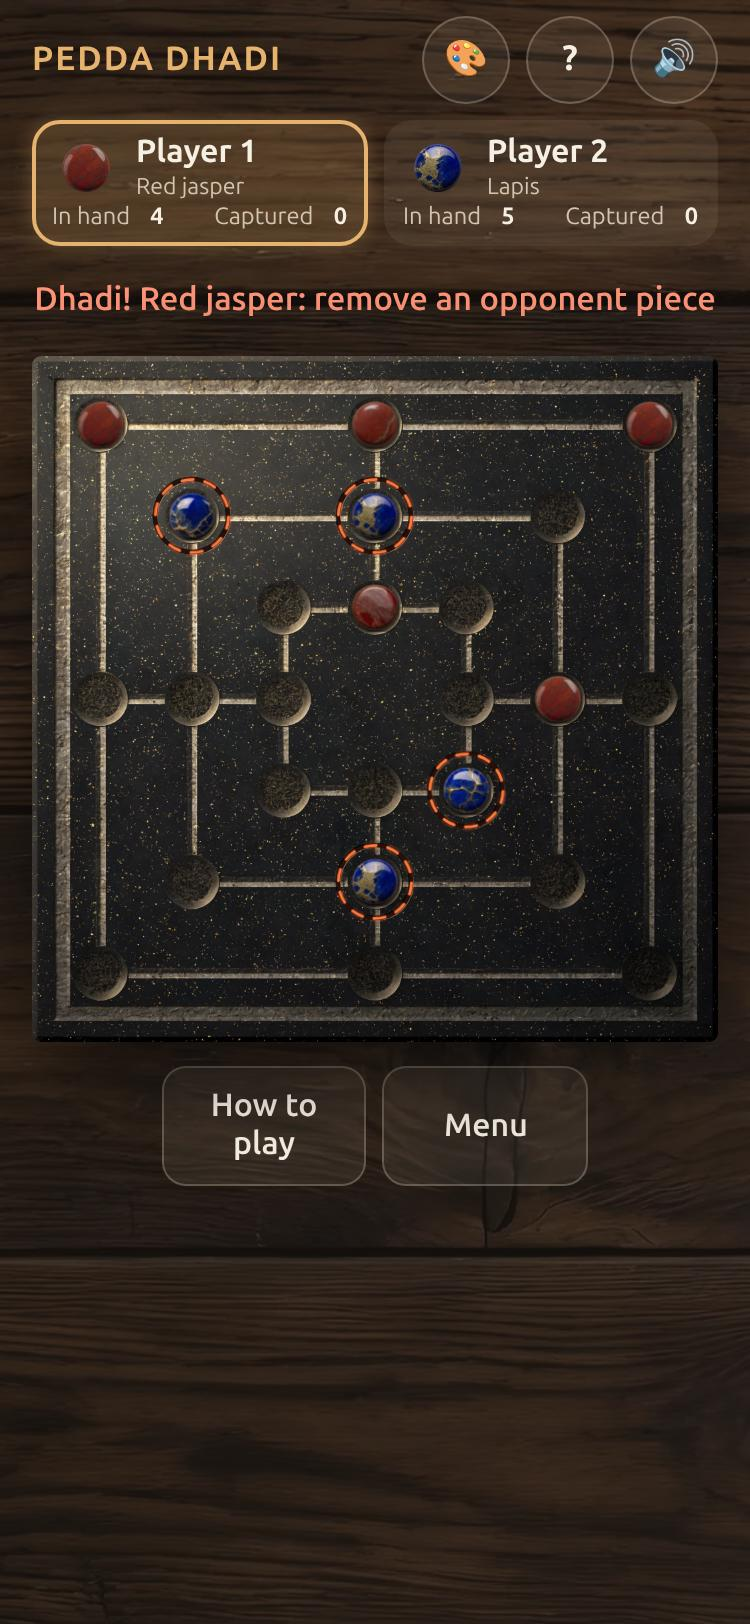
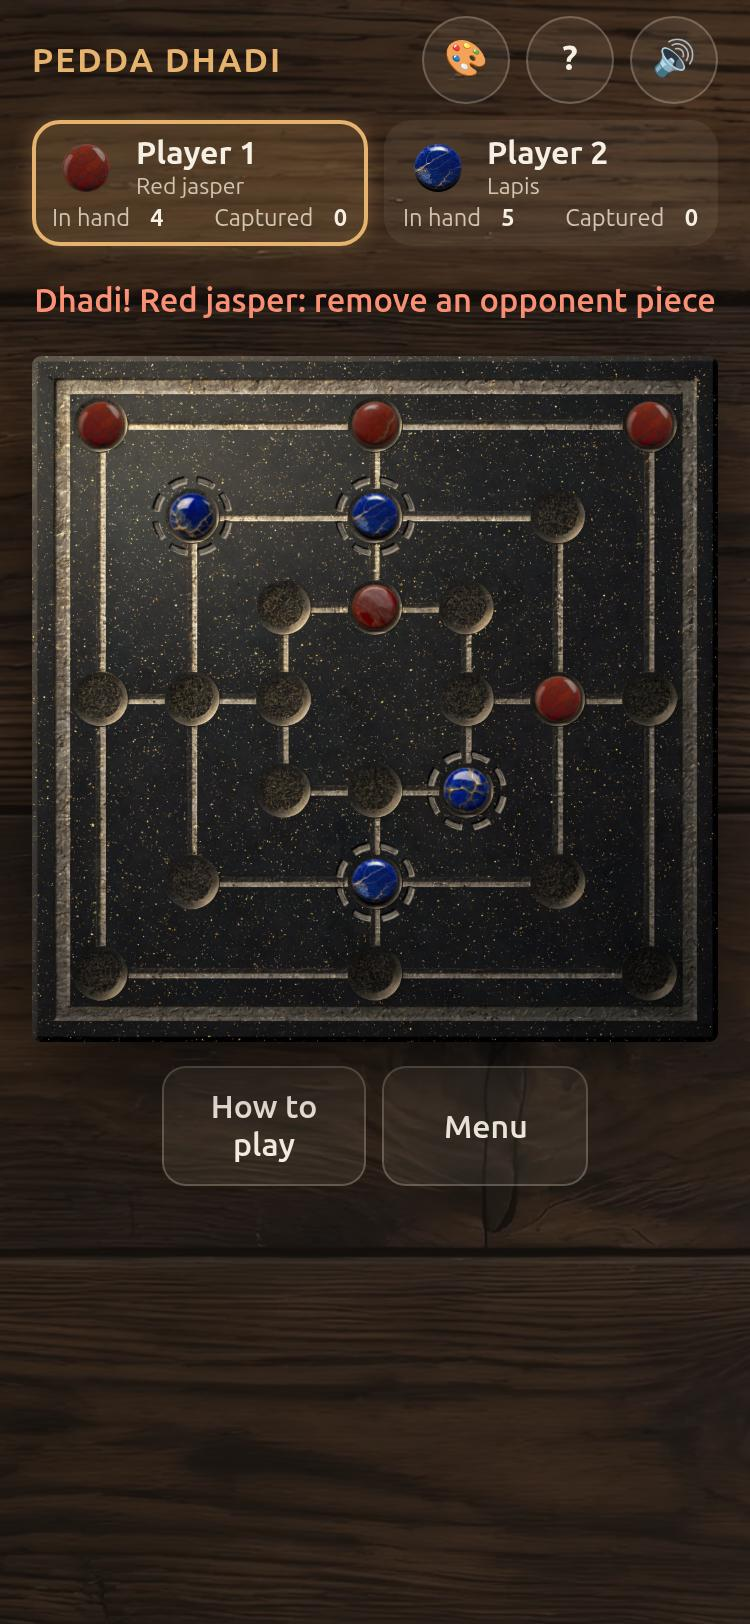
Granite Ultra: chiselled colourless indicators, hover-only placing preview, motion-aware shadows
- Ultra indicators are carved with the board's chisel texture (dark upper-left wall, lit lower-right lip): dashed rotating ring (capture), dotted breathing ring (move targets), solid ring with lip pulse (selected), faint static ring (hover), one light glint along a formed dhadi
- Placing phase shows no per-point markers; hover preview on mouse pointers only (High and Ultra)
- piece shadows lift/enlarge/soften while sliding or landing (transform + opacity only)
- chisel texture exported; reduced-motion and Low respected

diff --git a/src/ui/boardView.ts b/src/ui/boardView.ts
@@ -44,6 +44,7 @@ export class BoardView {
   private timers = new Set<number>();
   private interactive = true;
 
+  private hoverLayer: SVGGElement = svgEl('g', { class: 'hover-layer' });
   private lastState: GameState | null = null;
   private lastOverlay: Overlay = NO_OVERLAY;
   private lastMovable: readonly number[] = [];
@@ -74,7 +75,8 @@ export class BoardView {
     const nodes = this.render.level === 'low' && !this.render.assets.board ? stripFilters(floor) : floor;
     for (const n of nodes) this.el.append(n);
     if (!this.render.assets.boardIncludesLines || !this.render.assets.board) this.el.append(this.buildLines());
-    this.el.append(this.glowLayer, this.hlLayer, this.pieceLayer, this.buildHits());
+    if (this.ultraCarved) this.el.append(...svgFragment(this.carvedDefs()));
+    this.el.append(this.glowLayer, this.hlLayer, this.hoverLayer, this.pieceLayer, this.buildHits());
   }
 
   /** Board floor from a photographic texture: one image, or a tiled pattern, with rounded corners. */
@@ -164,12 +166,40 @@ export class BoardView {
       const c = svgEl('circle', { cx: x, cy: y, r: HIT_R, class: 'hit', 'data-point': i });
       g.append(c);
     }
+    g.addEventListener('pointermove', (e) => {
+      if (e.pointerType !== 'mouse') return; // touch: placing is a single tap, nothing extra to show
+      const t = (e.target as Element).closest('[data-point]');
+      this.showHover(t ? Number(t.getAttribute('data-point')) : null);
+    });
+    g.addEventListener('pointerleave', () => this.showHover(null));
     g.addEventListener('click', (e) => {
       if (!this.interactive) return;
       const t = (e.target as Element).closest('[data-point]');
       if (t) this.onTap(Number(t.getAttribute('data-point')));
     });
     return g;
+  }
+
+  /** Carved indicators on a baked board (High and Ultra). */
+  private get carved(): boolean {
+    return !!this.render.assets.boardIncludesLines && !!this.render.assets.board && this.render.level !== 'low';
+  }
+  /** At Ultra the indicators are chiselled in the board's own stone material, without any colour. */
+  private get ultraCarved(): boolean {
+    return this.carved && this.render.level === 'ultra';
+  }
+  private hoverPoint: number | null = null;
+
+  private showHover(p: number | null): void {
+    if (p === this.hoverPoint) return;
+    this.hoverPoint = p;
+    clear(this.hoverLayer);
+    const o = this.lastOverlay;
+    // Placing phase only (no piece selected): preview the point under the pointer.
+    if (p === null || !this.carved || o.selected !== null || !o.targets.includes(p)) return;
+    const { x, y } = pointXY(p);
+    if (this.ultraCarved) this.hoverLayer.append(...this.groove(x, y, PIECE_R + 9, 2.6, { opacity: 0.6 }));
+    else this.hoverLayer.append(svgEl('circle', { cx: x, cy: y, r: 9, fill: '#ff9a4a', opacity: 0.5 }), ...this.carvedRing(x, y, 15, 2.2, '#8a4a22'));
   }
 
   setInteractive(on: boolean): void {
@@ -206,7 +236,7 @@ export class BoardView {
       // Carved boards: the stone sits a little inside its cup so the carved rim shows around it.
       const half = PIECE_R * (this.render.assets.boardIncludesLines ? 0.97 : 1.22);
       if (this.render.assets.pieceShadow) {
-        body.append(svgEl('image', { href: this.render.assets.pieceShadow, x: -half, y: -half, width: half * 2, height: half * 2 }));
+        body.append(svgEl('image', { href: this.render.assets.pieceShadow, x: -half, y: -half, width: half * 2, height: half * 2, class: 'piece-shadow' }));
       } else if (this.render.level === 'ultra') {
         body.append(svgEl('ellipse', { cx: 1.5, cy: PIECE_R * 0.45, rx: PIECE_R * 0.95, ry: PIECE_R * 0.5, fill: '#000', opacity: 0.4, filter: 'url(#q-shadow)' }));
       }
@@ -216,6 +246,10 @@ export class BoardView {
       for (const n of this.render.level === 'low' ? stripFilters(markup) : markup) body.append(n);
     }
     outer.append(body);
+    if (animateIn) {
+      outer.classList.add('landing');
+      this.schedule(() => outer.classList.remove('landing'), 360);
+    }
     this.pieceLayer.append(outer);
     this.pieces.set(point, outer);
     return outer;
@@ -281,6 +315,10 @@ export class BoardView {
 
   /** Briefly glow the lines of newly formed dhadis. */
   flashMills(millIndices: readonly number[]): void {
+    if (this.ultraCarved) {
+      this.glint(millIndices);
+      return;
+    }
     for (const mi of millIndices) {
       const m = MILLS[mi];
       const a = pointXY(m[0]);
@@ -315,18 +353,104 @@ export class BoardView {
     ];
   }
 
+  /** Ultra: one light glint sweeps along the carved line of a formed dhadi (no colour). */
+  private glint(millIndices: readonly number[]): void {
+    const reduced = window.matchMedia?.('(prefers-reduced-motion: reduce)').matches;
+    for (const mi of millIndices) {
+      const m = MILLS[mi];
+      const a = pointXY(m[0]);
+      const b = pointXY(m[2]);
+      const len = Math.hypot(b.x - a.x, b.y - a.y);
+      const ang = (Math.atan2(b.y - a.y, b.x - a.x) * 180) / Math.PI;
+      const g = svgEl('g', { transform: `translate(${a.x} ${a.y}) rotate(${ang})` });
+      const line = reduced
+        ? svgEl('line', { x1: 0, y1: 0, x2: len, y2: 0, stroke: '#fff6e6', 'stroke-width': 3, 'stroke-linecap': 'round', class: 'cv-glint-fade' })
+        : svgEl('line', { x1: -16, y1: 0, x2: 16, y2: 0, stroke: `url(#${this.uid}-glint)`, 'stroke-width': 7, 'stroke-linecap': 'round', class: 'cv-glint' });
+      line.style.setProperty('--len', `${len}px`);
+      g.append(line);
+      this.glowLayer.append(g);
+      this.schedule(() => g.remove(), 1100);
+    }
+  }
+
+  private carvedDefs(): string {
+    const id = this.uid;
+    const tex = this.render.assets.chisel;
+    // The groove floor is literally the chisel texture used for the board, darkened (it sits in shade).
+    const floor = tex
+      ? `<pattern id="${id}-chisel" width="160" height="160" patternUnits="userSpaceOnUse"><image href="${tex}" width="160" height="160" preserveAspectRatio="none"/><rect width="160" height="160" fill="#000" opacity="0.42"/></pattern>`
+      : `<pattern id="${id}-chisel" width="8" height="8" patternUnits="userSpaceOnUse"><rect width="8" height="8" fill="#6f6252"/></pattern>`;
+    return `<defs>${floor}<linearGradient id="${id}-glint" gradientUnits="userSpaceOnUse" x1="-16" x2="16" y1="0" y2="0"><stop offset="0" stop-color="#fff6e6" stop-opacity="0"/><stop offset="0.5" stop-color="#fff6e6" stop-opacity="0.95"/><stop offset="1" stop-color="#fff6e6" stop-opacity="0"/></linearGradient></defs>`;
+  }
+
+  /**
+   * A ring chiselled into the stone (Ultra): chisel-textured floor, dark wall on the upper-left, lit lip on the lower-right.
+   * Each layer is its own circle, so rotating / breathing one about its own centre only moves the dash pattern or the size and
+   * the lighting direction never turns.
+   */
+  private groove(
+    x: number,
+    y: number,
+    r: number,
+    w: number,
+    o: { dash?: string; cap?: 'round' | 'butt'; motion?: 'rot' | 'breathe' | 'pulse' | null; opacity?: number } = {},
+  ): SVGElement[] {
+    const motion = o.motion ?? null;
+    const mk = (dx: number, dy: number, sw: number, stroke: string, op: number, extra = '') => {
+      const c = svgEl('circle', {
+        cx: x + dx, cy: y + dy, r, fill: 'none', stroke, 'stroke-width': sw, opacity: op * (o.opacity ?? 1),
+        ...(o.dash ? { 'stroke-dasharray': o.dash, 'stroke-linecap': o.cap ?? 'butt' } : {}),
+      });
+      const cls = [motion === 'rot' ? 'cv-rot' : motion === 'breathe' ? 'cv-breathe' : '', extra].filter(Boolean).join(' ');
+      if (cls) c.setAttribute('class', cls);
+      return c;
+    };
+    return [
+      mk(1.0, 1.0, w + 1.4, '#f3dfbd', 0.6, motion === 'pulse' ? 'cv-pulse' : ''), // lit lip, lower-right
+      mk(-1.0, -1.0, w + 1.6, '#000', 0.85), // shadowed wall, upper-left
+      mk(0, 0, w, `url(#${this.uid}-chisel)`, 1), // chiselled floor
+    ];
+  }
+
+  private setUltraOverlay(o: Overlay): void {
+    const L = this.hlLayer;
+    const placing = o.selected === null && o.capturable.length === 0;
+    if (o.selected !== null) {
+      const { x, y } = pointXY(o.selected);
+      // solid ring, static shape; the lit lip slowly brightens and dims
+      L.append(...this.groove(x, y, PIECE_R + 9, 3.2, { motion: 'pulse' }));
+    }
+    if (!placing) {
+      for (const t of o.targets) {
+        const { x, y } = pointXY(t);
+        // dotted ring of small chiselled dimples that gently breathes
+        const r = 17;
+        const n = 12;
+        L.append(...this.groove(x, y, r, 4.6, { dash: `0.01 ${(2 * Math.PI * r) / n}`, cap: 'round', motion: 'breathe' }));
+      }
+    }
+    for (const c of o.capturable) {
+      const { x, y } = pointXY(c);
+      const r = PIECE_R + 10;
+      const dash = (2 * Math.PI * r) / 8;
+      // dashed ring, slowly rotating (only the dash pattern moves)
+      L.append(...this.groove(x, y, r, 3.4, { dash: `${dash * 0.58} ${dash * 0.42}`, motion: 'rot' }));
+    }
+    this.markClickable(o);
+  }
+
   private setCarvedOverlay(o: Overlay): void {
     const L = this.hlLayer;
+    const placing = o.selected === null && o.capturable.length === 0;
     if (o.selected !== null) {
       const { x, y } = pointXY(o.selected);
       L.append(...this.carvedRing(x, y, PIECE_R + 9, 3, '#e9b866'), svgEl('circle', { cx: x, cy: y, r: PIECE_R + 9, fill: 'none', stroke: '#ffd79a', 'stroke-width': 1.2, opacity: 0.9, class: 'hl-selected' }));
     }
-    for (const t of o.targets) {
-      const { x, y } = pointXY(t);
-      L.append(
-        svgEl('circle', { cx: x, cy: y, r: 9, fill: '#ff9a4a', opacity: 0.45, class: 'hl-target' }),
-        ...this.carvedRing(x, y, 15, 2.2, '#8a4a22'),
-      );
+    if (!placing) {
+      for (const t of o.targets) {
+        const { x, y } = pointXY(t);
+        L.append(svgEl('circle', { cx: x, cy: y, r: 9, fill: '#ff9a4a', opacity: 0.45, class: 'hl-target' }), ...this.carvedRing(x, y, 15, 2.2, '#8a4a22'));
+      }
     }
     for (const c of o.capturable) {
       const { x, y } = pointXY(c);
@@ -357,7 +481,13 @@ export class BoardView {
   setOverlay(o: Overlay): void {
     this.lastOverlay = o;
     clear(this.hlLayer);
-    if (this.render.assets.boardIncludesLines && this.render.assets.board && this.render.level !== 'low') {
+    clear(this.hoverLayer);
+    this.hoverPoint = null;
+    if (this.ultraCarved) {
+      this.setUltraOverlay(o);
+      return;
+    }
+    if (this.carved) {
       this.setCarvedOverlay(o);
       return;
     }

diff --git a/src/style.css b/src/style.css
@@ -178,6 +178,7 @@ html.modal-open, html.modal-open body { overflow: hidden; overscroll-behavior: n
   .board-wrap { min-width: 0; }
 }
 @media (prefers-reduced-motion: reduce) {
+  .cv-rot, .cv-breathe, .cv-pulse, .piece-shadow { animation: none !important; }
   .piece.sliding { transition-duration: .01s; }
   .hl-target, .hl-capture, .hl-ember, .piece.movable .piece-body { animation: none; }
 }
@@ -302,3 +303,23 @@ html.modal-open, html.modal-open body { overflow: hidden; overscroll-behavior: n
 @keyframes card-breathe { 0%, 100% { box-shadow: 0 0 10px var(--accent-glow); } 50% { box-shadow: 0 0 22px var(--accent-glow); } }
 [data-quality='ultra'] .card.active { animation: card-breathe 3.6s ease-in-out infinite; }
 .quality-seg { grid-template-columns: repeat(auto-fit, minmax(92px, 1fr)); }
+
+/* ---- Granite Ultra: chiselled indicators (transform / opacity only) ---- */
+.cv-rot, .cv-breathe { transform-box: fill-box; transform-origin: center; will-change: transform; pointer-events: none; }
+.cv-rot { animation: spin 12s linear infinite; }
+.cv-breathe { animation: breathe 2.4s ease-in-out infinite; }
+.cv-pulse { animation: lip-pulse 2s ease-in-out infinite; pointer-events: none; }
+@keyframes breathe { 0%, 100% { transform: scale(0.965); } 50% { transform: scale(1.035); } }
+@keyframes lip-pulse { 0%, 100% { opacity: .35; } 50% { opacity: .95; } }
+.cv-glint { animation: glint-sweep .9s ease-in-out forwards; pointer-events: none; }
+.cv-glint-fade { animation: glint-fade .6s ease-out forwards; pointer-events: none; }
+@keyframes glint-sweep { 0% { transform: translateX(-10px); opacity: 0; } 18% { opacity: 1; } 82% { opacity: 1; } 100% { transform: translateX(calc(var(--len) + 10px)); opacity: 0; } }
+@keyframes glint-fade { 0% { opacity: 0; } 25% { opacity: .8; } 100% { opacity: 0; } }
+.hover-layer { pointer-events: none; }
+
+/* piece shadows respond to motion: while a stone slides or lands it "lifts" (further, larger, softer, lighter) */
+.piece-shadow { transform-box: fill-box; transform-origin: center; }
+.piece.sliding .piece-shadow { animation: shadow-lift .32s ease-out; }
+.piece.landing .piece-shadow { animation: shadow-land .34s ease-out; }
+@keyframes shadow-lift { 0% { transform: none; opacity: 1; } 40% { transform: translate(5px, 6px) scale(1.2); opacity: .45; } 100% { transform: none; opacity: 1; } }
+@keyframes shadow-land { 0% { transform: translate(9px, 11px) scale(1.4); opacity: .25; } 100% { transform: none; opacity: 1; } }

diff --git a/src/ui/assets.ts b/src/ui/assets.ts
@@ -13,6 +13,7 @@ export interface LoadedAssets {
   /** Ultra: several images per side; pieces choose one deterministically. */
   pieceVariants: [string[], string[]];
   pieceShadow?: string;
+  chisel?: string;
 }
 
 export const NO_ASSETS: LoadedAssets = { pieces: [undefined, undefined], pieceVariants: [[], []] };
@@ -39,6 +40,7 @@ export function wantedPaths(assets: ThemeAssets | undefined, level: QualityLevel
     boardTile: assets?.boardTile,
     boardIncludesLines: assets?.boardIncludesLines,
     pieceShadow: level === 'high' || level === 'ultra' ? assets?.pieceShadow : undefined,
+    chisel: level === 'ultra' ? assets?.chisel : undefined,
     pieceVariants: [
       level === 'ultra' ? (assets?.pieces?.[0]?.ultraVariants ?? []) : [],
       level === 'ultra' ? (assets?.pieces?.[1]?.ultraVariants ?? []) : [],
@@ -91,6 +93,7 @@ export async function loadAssets(theme: Theme, level: QualityLevel, probe: Probe
   };
   const [board, background, p0, p1] = await Promise.all([check(want.board), check(want.background), check(want.pieces[0]), check(want.pieces[1])]);
   const pieceShadow = await check(want.pieceShadow);
+  const chisel = await check(want.chisel);
   const variants = await Promise.all(
     want.pieceVariants.map(async (list) => (await Promise.all(list.map((x) => check(x)))).filter((u): u is string => !!u)),
   );
@@ -103,6 +106,7 @@ export async function loadAssets(theme: Theme, level: QualityLevel, probe: Probe
     // With variants available, the single-image slot (HUD icons, fallbacks) uses the first variant.
     pieces: [p0 ?? pieceVariants[0][0], p1 ?? pieceVariants[1][0]],
     pieceVariants,
+    chisel,
     pieceShadow: pieceShadow && (p0 || p1 || pieceVariants[0].length || pieceVariants[1].length) ? pieceShadow : undefined,
   };
 }

diff --git a/tests/quality.test.ts b/tests/quality.test.ts
@@ -110,7 +110,7 @@ describe('asset manifest', () => {
     for (const t of THEMES) {
       for (const lvl of ['high', 'ultra'] as const) {
         const w = wantedPaths(t.assets, lvl);
-        for (const p of [w.board, w.background, w.pieceShadow, ...w.pieces, ...w.pieceVariants[0], ...w.pieceVariants[1]]) if (p) expect(existsSync(join('public', p)), `${t.id} ${p}`).toBe(true);
+        for (const p of [w.board, w.background, w.pieceShadow, w.chisel, ...w.pieces, ...w.pieceVariants[0], ...w.pieceVariants[1]]) if (p) expect(existsSync(join('public', p)), `${t.id} ${p}`).toBe(true);
       }
     }
   });

diff --git a/src/ui/themes/granite.ts b/src/ui/themes/granite.ts
@@ -42,6 +42,7 @@ export const granite: Theme = {
     board: { high: 'assets/granite/board.high.webp', ultra: 'assets/granite/board.ultra.webp' },
     boardIncludesLines: true,
     pieceShadow: 'assets/granite/piece_shadow.webp',
+    chisel: 'assets/granite/chisel.ultra.webp',
     background: { high: 'assets/granite/table.high.webp', ultra: 'assets/granite/table.ultra.webp' },
     pieces: [
       {

diff --git a/src/ui/themes/theme.ts b/src/ui/themes/theme.ts
@@ -54,6 +54,8 @@ export interface ThemeAssets {
   pieces?: [ImageSet | undefined, ImageSet | undefined];
   /** Baked soft contact shadow drawn under each piece image (same box as the stone image). */
   pieceShadow?: string;
+  /** Chiselled-stone texture used as the material of engraved indicators at Ultra. */
+  chisel?: string;
 }
 
 export interface StrokeLayer {
